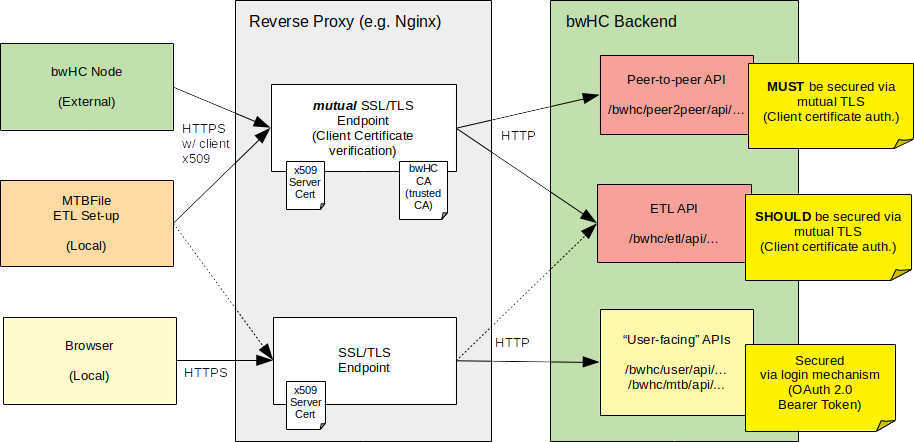
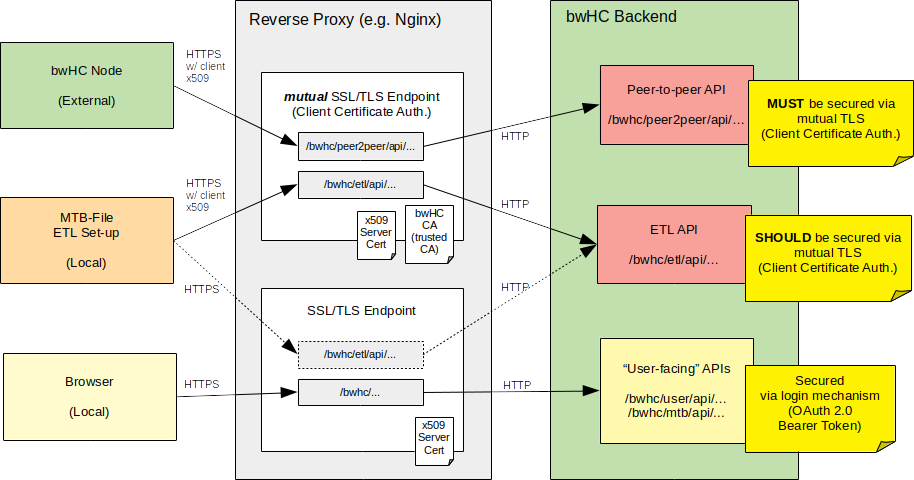
Further work on backend manual README incl. diagrams

diff --git a/deployment/README.md b/deployment/README.md
@@ -138,10 +138,12 @@ These URLs must point to the respective bwHC node's "Peer-to-peer API" base URL,
 
 https://HOST:PORT/bwhc/peer2peer/api/
 
+See below (3.2.3.3) for instructions on how to set up peer-to-peer communication in combination with a proxy to handle client certificates.
+
 
 #### 2.2.3 Setting up HTTPS / Securing Backend API Access: 
 
-By default (i.e. without explicit configuration of Java Keystores), the Play Server of the bwHC Backend API only supports normal HTTP. 
+By default (i.e. without explicit configuration of Java Keystores), the Play Server of the bwHC Backend only supports normal HTTP. 
 For HTTPS support and securing access to the backend API, it is recommended to use a reverse proxy such as Nginx:
 
 
@@ -206,18 +208,6 @@ See [NGINX Admin Guide](https://docs.nginx.com/nginx/admin-guide/) for detailed 
 
 
 #### 3.2.3.2 Set up NGINX to secure sub-APIs with Client Certificate Authentication (mutual TLS)
-
-__IMPORTANT__:
-The bwHC sub-APIs exposed to "system agents" are __NOT SECURED__ by a login-based authentication mechanism.
-Access to these APIs thus __MUST__ be restricted using mutual TLS.
-
-The APIs in question are:
-
-| API | URI Path |
-| ---- | -------------|
-| ETL API (local data export) | HOST:PORT/bwhc/etl/api/ |
-| Peer-to-peer API | HOST:PORT/bwhc/peer2peer/api/ |
-
 
 There are __2 possible ways__ to configure Nginx to secure these APIs endpoints via mutual SSL.
 
@@ -316,7 +306,12 @@ http {
 
 #### 3.2.3.3 Set up NGINX as Proxy for bwHC peers:
 
-Here's a sample configuration to set up a virtual NGINX server to act as proxy "into the bwHC", i.e. for outgoing requests to other bwHC sites:
+The communication of bwHC nodes among bwHC sites uses HTTPS with Client Certificates. The handling of these certificate issues is performed in a proxy server mediating between the local bwHC backend and its external peers: 
+
+![Outgoing Proxy Overview](Outgoing_Proxy_Overview.png)
+
+
+Here's a sample configuration to set up a virtual NGINX server to act as such a proxy:
 
 ```nginx
 http {
@@ -427,25 +422,19 @@ In Bash-script __bwhc-backend-service__, uncomment variable __N_RANDOM_FILES__ a
 
 __WARNING__: The random generated data will all be kept in memory, so avoid excessively large numbers!
 
-Then uncomment the JVM-parameter setting __-Dbwhc.query.data.generate__ and include it in the application startup command, as shown below (indented command):
+Then uncomment the JVM-parameter setting __-Dbwhc.query.data.generate__ and include it in the application startup command, as shown below:
 
 ```bash
-  ...
-  
-  N_RANDOM_FILES=50
-  ...
-  
-  $BWHC_APP_DIR/bin/bwhc-rest-api-gateway \
-    -Dconfig.file=$BASE_DIR/production.conf \
-    -Dbwhc.zpm.site=$ZPM_SITE \
-    -Dbwhc.data.entry.dir=$BWHC_DATA_ENTRY_DIR \
-    -Dbwhc.query.data.dir=$BWHC_QUERY_DATA_DIR \
-    -Dbwhc.user.data.dir=$BWHC_USER_DB_DIR \
-    -Dbwhc.connector.configFile=$BWHC_CONNECTOR_CONFIG \
-  -Dbwhc.query.data.generate=$N_RANDOM_FILES \        #This command is commented in default bwhc-backend-service
-    -Dhttp.port=$BWHC_PORT &
+ ...
+ N_RANDOM_FILES=50
+ ...
+ 
+ $BWHC_APP_DIR/bin/bwhc-rest-api-gateway \
+    ... \
+    -Dbwhc.query.data.generate=$N_RANDOM_FILES \     #This command is commented in default bwhc-backend-service
+    ... &
 
-  ...
+ 
 ```
 
 -------
